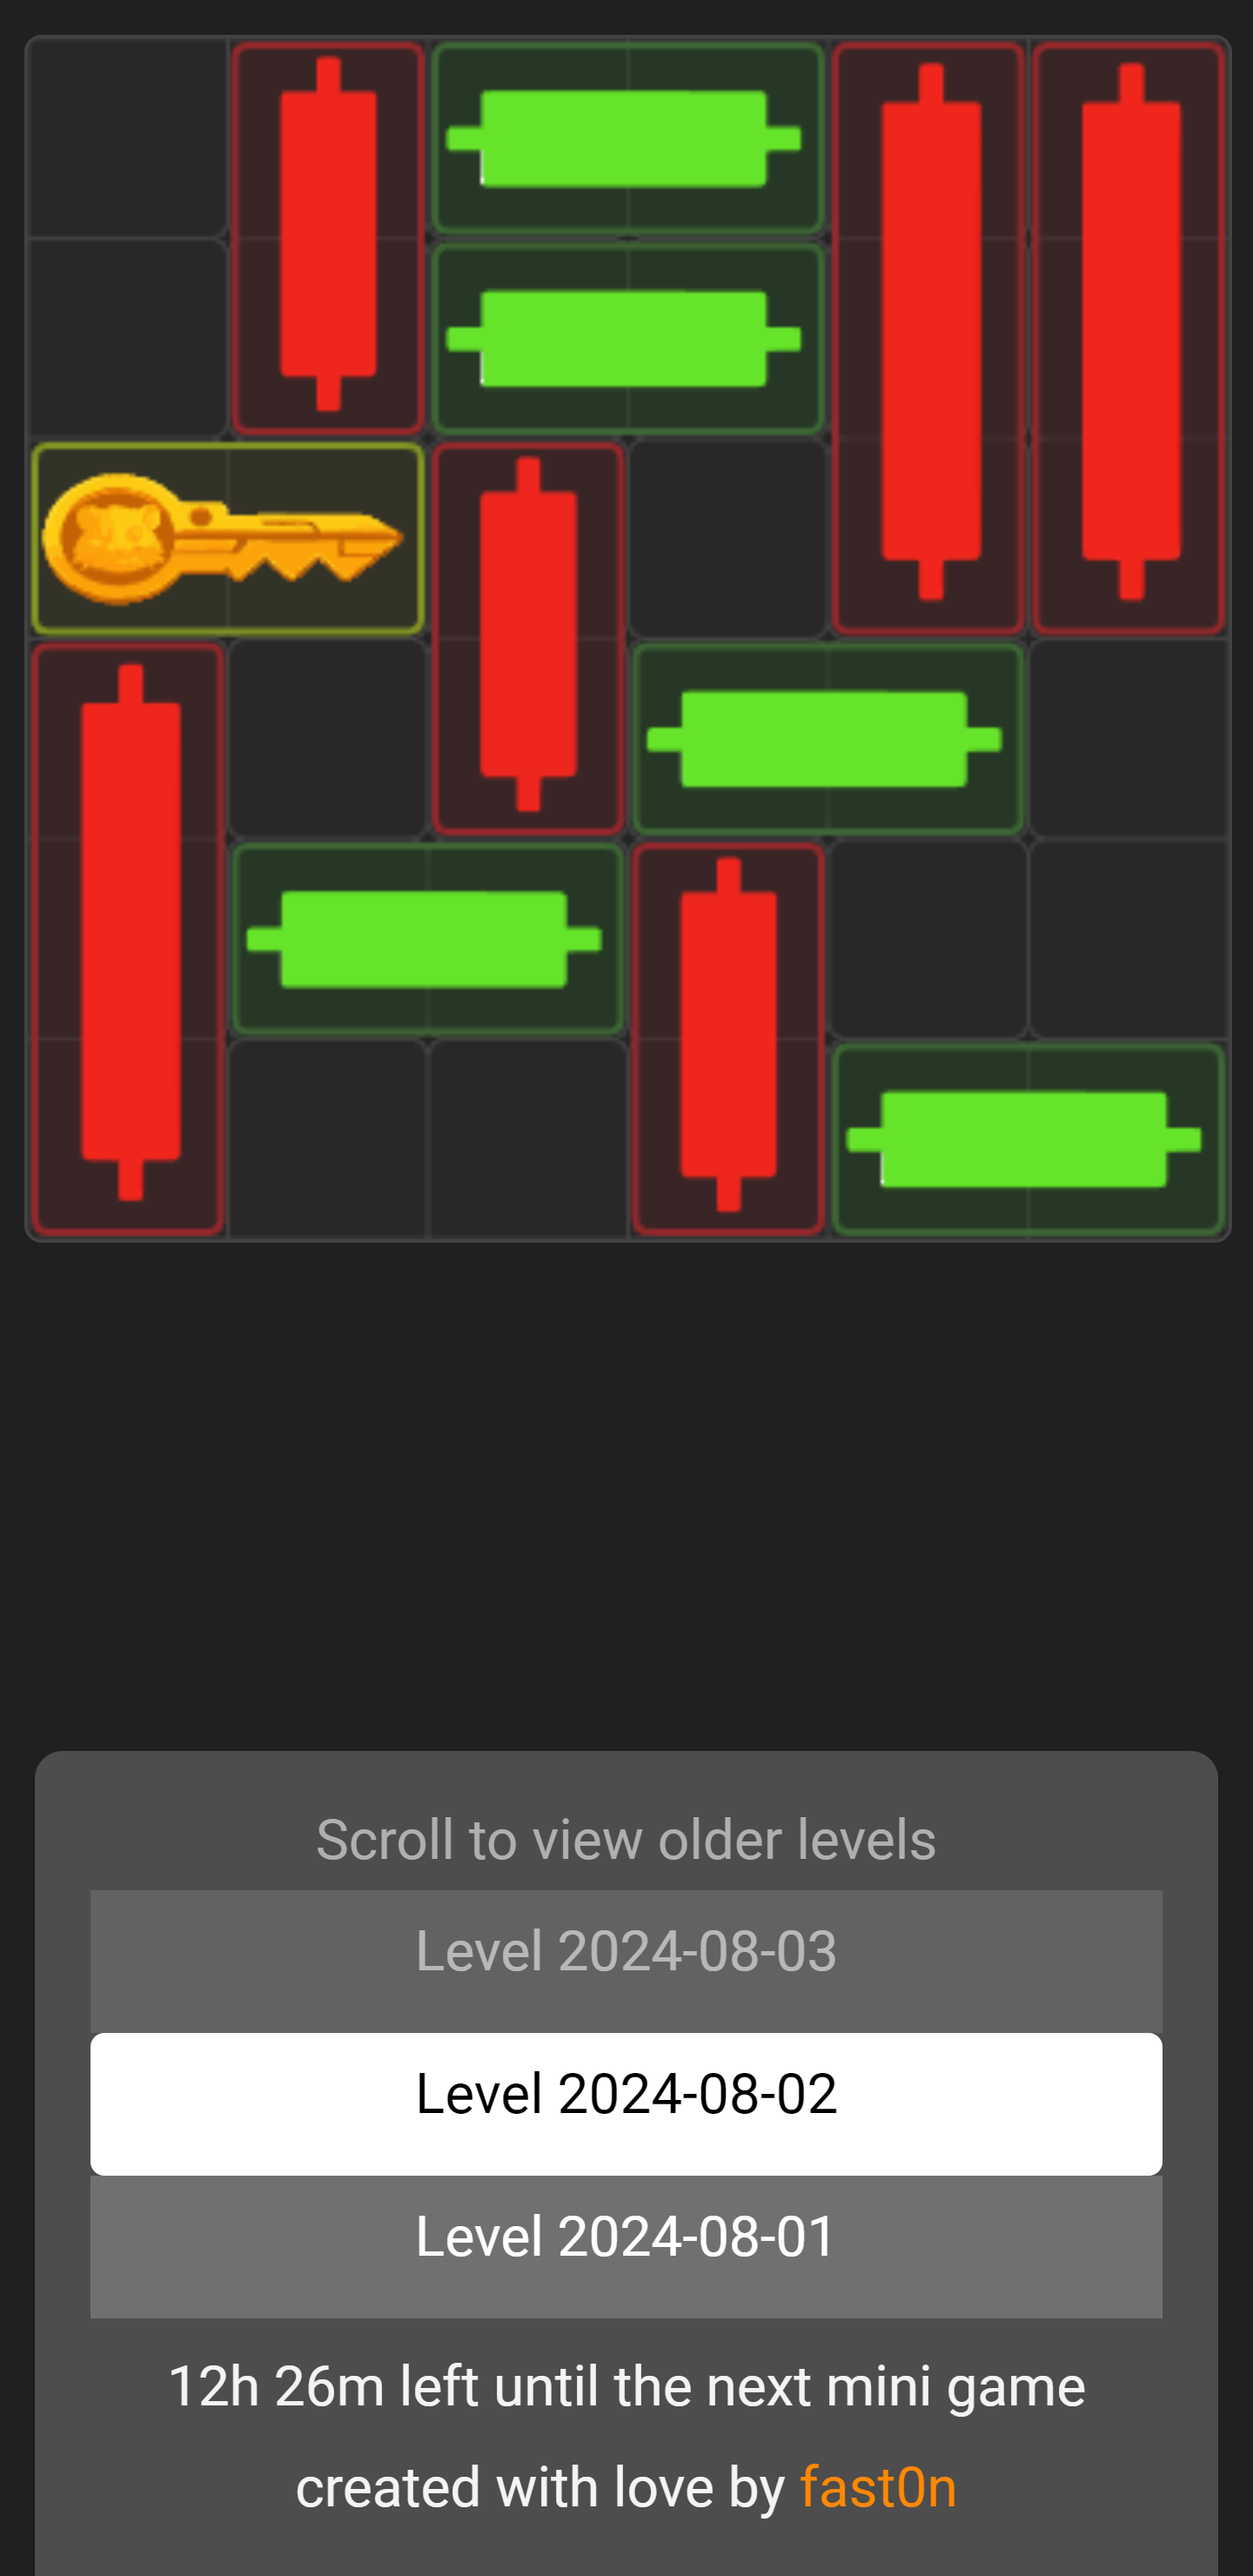
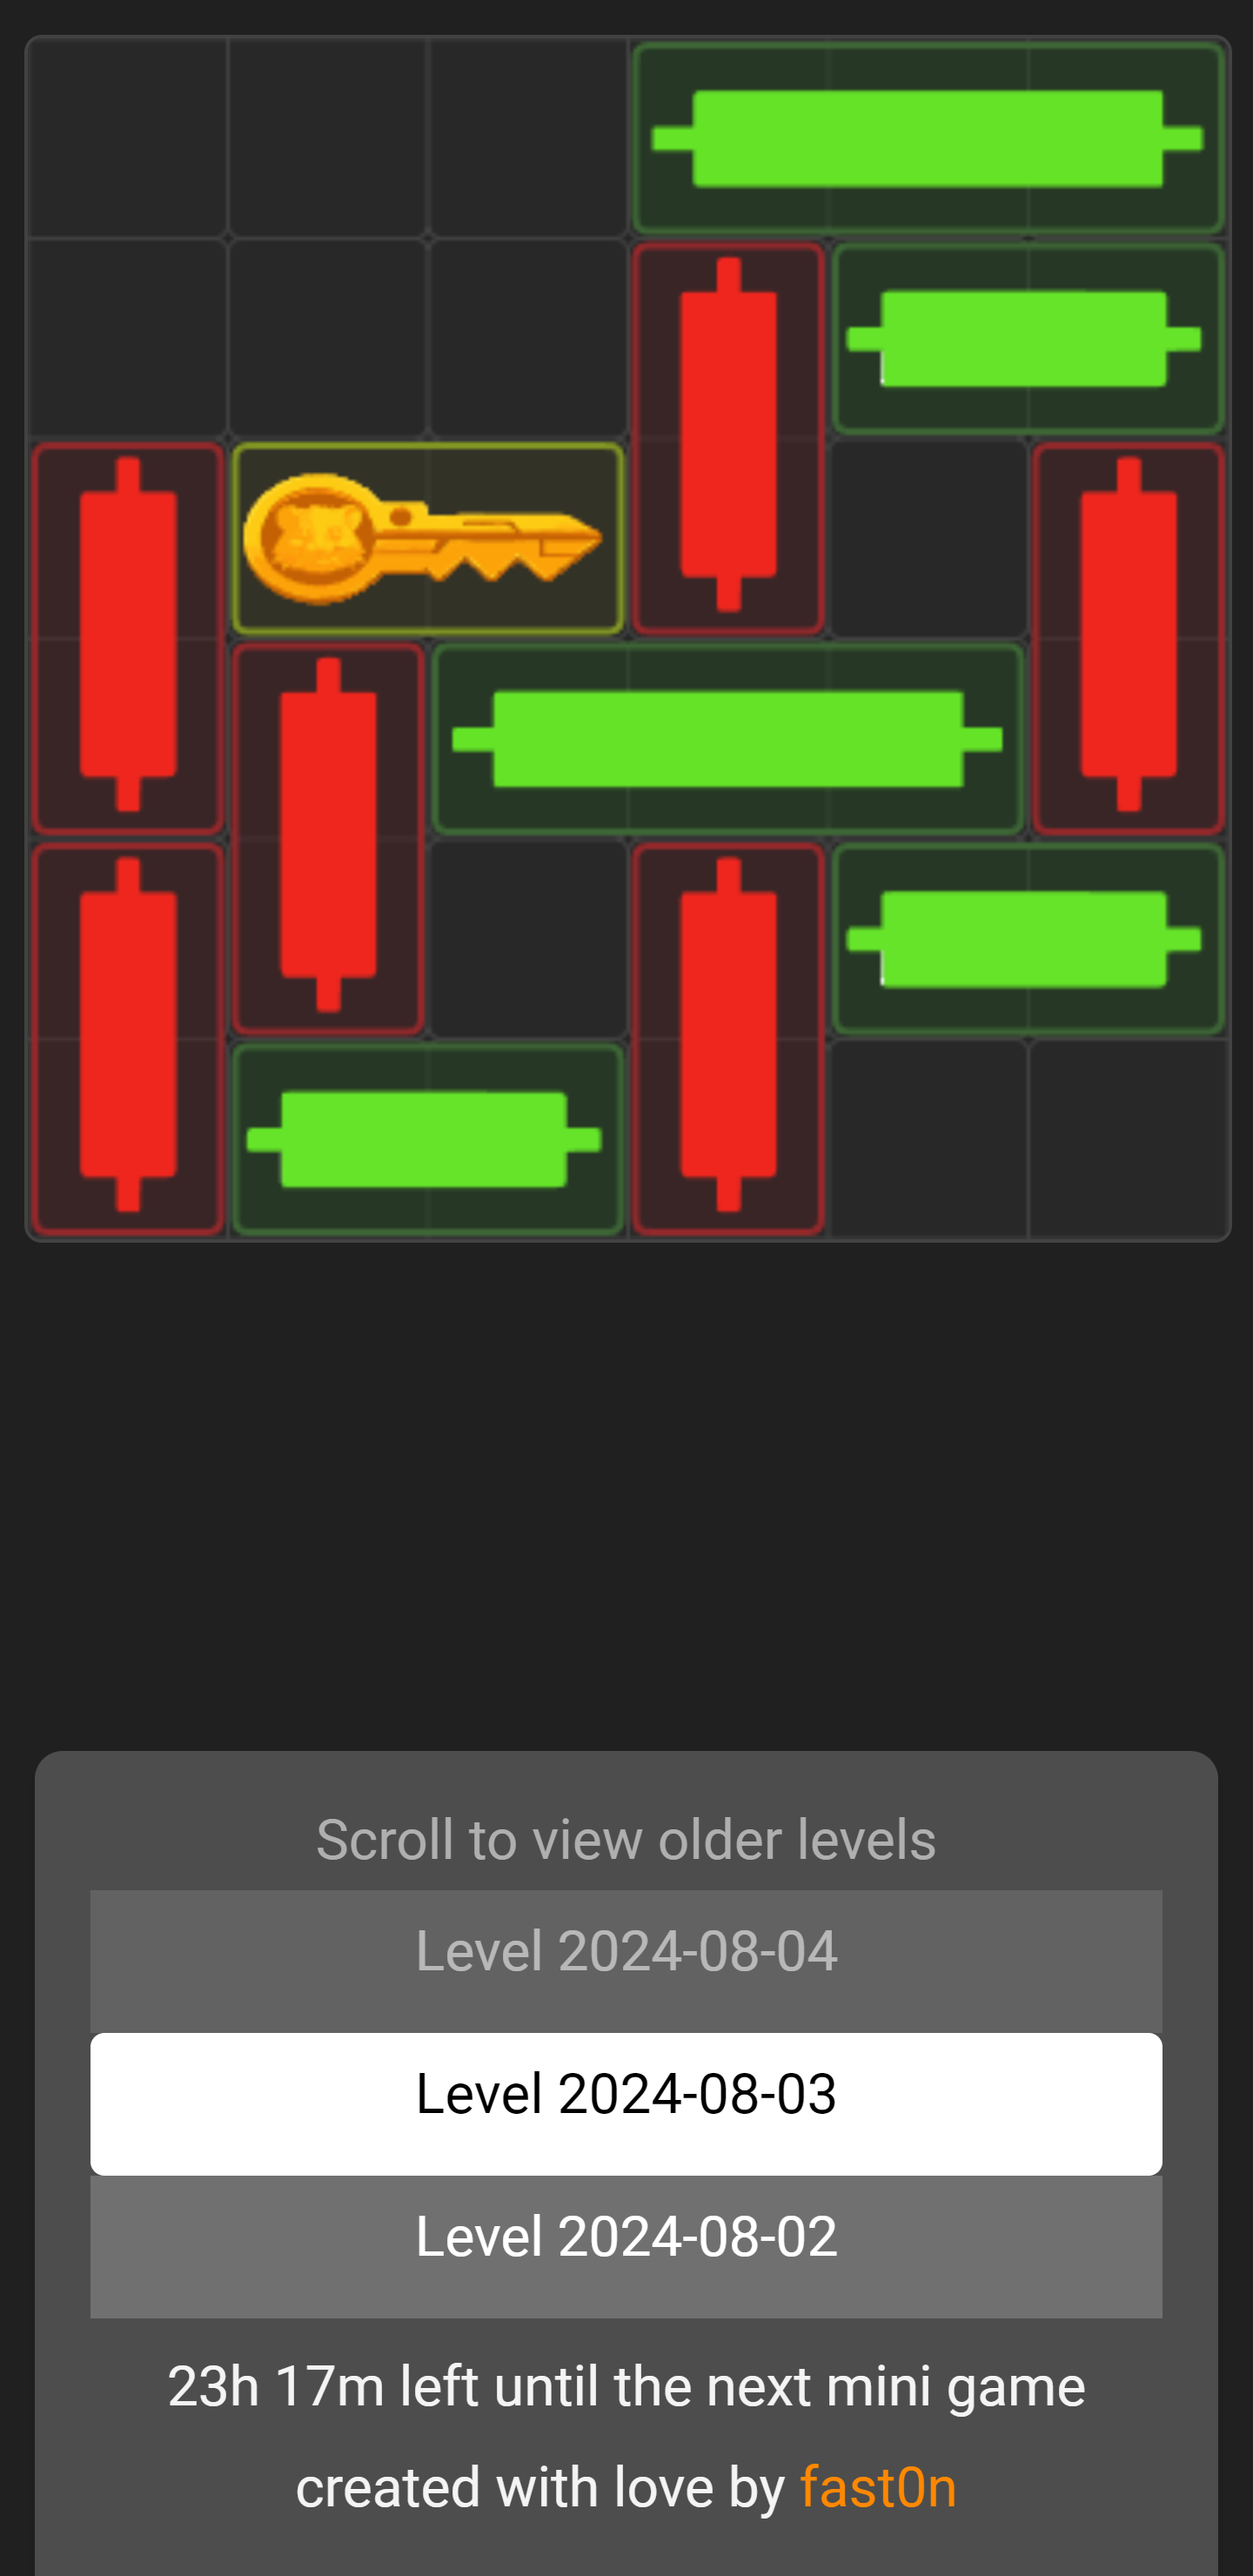
add level 24-08-03

diff --git a/debug/script.js b/debug/script.js
@@ -126,8 +126,11 @@ function drawGame() {
 function moveBlock(block, dx, dy) {
     const newX = block.x + dx;
     const newY = block.y + dy;
-    
-    animateMove(block, block.x, block.y, newX, newY, performance.now());
+
+    if (canMoveBlock(block, dx, dy)) {
+        // Solo se il movimento è valido, avvia l'animazione
+        animateMove(block, block.x, block.y, newX, newY, performance.now());
+    }
 }
 
 function animateMove(block, startX, startY, endX, endY, startTime) {
@@ -164,7 +167,7 @@ function drawBlock(ctx, x, y, width, height, color) {
     const drawY = y * cellSize + padding;
     const drawWidth = width * cellSize - 2 * padding;
     const drawHeight = height * cellSize - 2 * padding;
-    
+
     // Determina il colore di sfondo in base al colore del blocco
     let backgroundColor;
     if (color === 'red' || color === 'red2') {
@@ -174,7 +177,6 @@ function drawBlock(ctx, x, y, width, height, color) {
     } else if (color === 'key') {
         backgroundColor = "rgba(62, 59, 37, 0.5)"; // Colore di sfondo per blocchi chiave con 50% di trasparenza
     }
-
 
     // Salva il contesto corrente
     ctx.save();
@@ -238,17 +240,30 @@ function drawBlock(ctx, x, y, width, height, color) {
     ctx.stroke();
     ctx.restore();
 }
+
+
+
 function canMoveBlock(block, dx, dy) {
     const newX = block.x + dx;
     const newY = block.y + dy;
-    
+
     // Verifica che il blocco non esca dai limiti della griglia
-    if (newX < 0 || newY < 0 || newX + block.width > gridSize || newY + block.height > gridSize) {
+    if (newX < 0 || newY < 0 ||
+        newX + block.width > gridSize ||
+        newY + block.height > gridSize) {
         return false;
     }
 
+    // Verifica che il blocco non esca dai limiti del canvas
+    if (newX < 0 || newY < 0 ||
+        newX + block.width * cellSize > canvas.width ||
+        newY + block.height * cellSize > canvas.height) {
+        return false;
+    }
 
+    return true;
 }
+
 
 
 
@@ -274,16 +289,6 @@ function startDrag(event) {
         initialX = x - selectedBlock.x;
         initialY = y - selectedBlock.y;
         selectedBlock.clickCount = (selectedBlock.clickCount || 0) + 1;
-        if (selectedBlock.clickCount === 5) {
-            if (confirm("Sei sicuro di voler cancellare questo blocco?")) {
-                blocks = blocks.filter(block => block !== selectedBlock);
-                selectedBlock = null;
-                drawGame();
-            } else {
-                selectedBlock.clickCount = 0; // Reset del contatore se la cancellazione è annullata
-            }
-            return;
-        }
     }
 }
 
@@ -395,6 +400,51 @@ function init() {
 // Avvia l'inizializzazione
 init();
 
+// Funzione per aggiungere un blocco
+function addBlock(x, y, color, width, height) {
+    blocks.push({ x, y, color, width, height });
+    drawGame(); // Ridisegna il gioco dopo aver aggiunto il blocco
+}
+
+// Funzione per rimuovere l'ultimo blocco
+function removeLastBlock() {
+    if (blocks.length > 0) {
+        blocks.pop(); // Rimuovi l'ultimo blocco dall'array
+        drawGame(); // Ridisegna il gioco dopo aver rimosso il blocco
+    }
+}
+
+// Gestore di eventi per il pulsante 'red'
+document.getElementById("red").addEventListener("click", function() {
+    // Aggiungi un blocco rosso al canvas
+    addBlock(0, 0, 'red', 1, 2);
+});
+
+// Gestore di eventi per il pulsante 'red2'
+document.getElementById("red2").addEventListener("click", function() {
+    // Aggiungi un blocco rosso al canvas
+    addBlock(0, 0, 'red2', 1, 3);
+});
+
+// Gestore di eventi per il pulsante 'green'
+document.getElementById("green").addEventListener("click", function() {
+    // Aggiungi un blocco verde al canvas
+    addBlock(0, 0, 'green', 2, 1);
+});
+
+// Gestore di eventi per il pulsante 'green2'
+document.getElementById("green2").addEventListener("click", function() {
+    // Aggiungi un blocco verde chiaro al canvas
+    addBlock(0, 0, 'green2', 3, 1);
+});
+
+// Gestore di eventi per il pulsante 'key'
+document.getElementById("key").addEventListener("click", function() {
+    // Aggiungi un blocco 'key' al canvas
+    addBlock(0, 0, 'key', 2, 1);
+});
+
+// Gestore di eventi per il pulsante 'save'
 document.getElementById("save").addEventListener("click", function() {
     // Rimuovi tutte le proprietà clickCount da ogni oggetto in blocks
     blocks.forEach(block => {
@@ -407,4 +457,10 @@ document.getElementById("save").addEventListener("click", function() {
     }, function(err) {
         console.error('Errore durante la copia negli appunti: ', err);
     });
+});
+
+// Gestore di eventi per il pulsante 'erase'
+document.getElementById("erase").addEventListener("click", function() {
+    // Rimuovi l'ultimo blocco
+    removeLastBlock();
 });

diff --git a/debug/index.html b/debug/index.html
@@ -8,7 +8,66 @@
     <title>Hamster Combat Mini Game</title>
     <link rel="stylesheet" href="../styles.css">
     <link rel="stylesheet" href="https://fonts.googleapis.com/css2?family=Roboto:wght@400;700&display=swap">
+    <style>
+
+        
+br{
+    
+    display: block; /* makes it have a width */
+    content: ""; /* clears default height */
+    margin-top: -6px; /* change this to whatever height you want it */
+}
+
+        .button-group {
+            margin-bottom: 10px;
+        }
+
+        .button-group button {
+            margin-right: 10px;
+            padding: 10px 20px;
+            border: none;
+            border-radius: 5px;
+            cursor: pointer;
+        }
+
+        #red {
+            background-color: #93282b;
+            color: white;
+        }
+
+        #red2 {
+            background-color: #93282b;
+            color: white;
+        }
+
+        #green {
+            background-color: #3d6535;
+            color: white;
+        }
+
+        #green2 {
+            background-color: #3d6535;
+            color: white;
+        }
+
+        #key {
+            background-color: #c98f02;
+            color: white;
+        }
+
+        #erase {
+            background-color: darkgray;
+            color: white;
+        }
+
+        #save {
+            background-color: blue;
+            color: white;
+        }
+    </style>
 </head>
+
+
 
 <body>
 
@@ -16,15 +75,31 @@
         <canvas id="gameCanvas" width="330" height="330"></canvas>
     </div>
         <footer>
+            <div class="button-group">
+                <button id="red">🟥<br>🟥</button>
+                <button id="red2">🟥<br>🟥<br>🟥</button>
+            </div>
+            
+            <div class="button-group">
+                <button id="green">🟩<span style="font-size: 0; margin: 0 -4px;"></span>🟩</button>
+                <button id="green2">🟩<span style="font-size: 0; margin: 0 -4px;"></span>🟩<span style="font-size: 0; margin: 0 -4px;"></span>🟩</button>
+            </div>
+            
+            <div class="button-group">
+                <button id="key">🔑</button>
+                <button id="erase">🗑</button>
+            </div>
+            
+            <div class="button-group">
+                <button id="save">Generate and copy</button>
+            </div>
             <nav>
-                <button id="save" type="button">Generate and copy</button>
                 <br>
                 created with love by <a href="https://github.com/Fast0n/HamsterKombatMiniGame" target="_blank">fast0n</a>
             </nav>
         </footer>
     <script src="../script/svgImage.js"></script>
     <script src="script.js"></script>
-    <script src="daily.js"></script>
 </body>
 
 </html>

diff --git a/debug/daily.js b/debug/daily.js
@@ -1,14 +1,1 @@
-blocks = [
-    {'x':0,'y':0,'color':'green2','width':3,'height':1},
-    {'x':4,'y':1,'color':'red','width':1,'height':2},
-    {'x':0,'y':1,'color':'green','width':2,'height':1},
-    {'x':0,'y':3,'color':'green','width':2,'height':1},
-    {'x':0,'y':5,'color':'key','width':2,'height':1,},
-    {'x':3,'y':2,'color':'red2','width':1,'height':3},
-    {'x':5,'y':0,'color':'red','width':1,'height':2},
-    {'x':5,'y':4,'color':'red','width':1,'height':2},
-    {'x':0,'y':2,'color':'green','width':2,'height':1},
-    {'x':4,'y':3,'color':'red2','width':1,'height':3},
-    {'x':2,'y':5,'color':'green','width':2,'height':1},
-    {'x':0,'y':4,'color':'green2','width':3,'height':1},
-    {'x':5,'y':2,'color':'red','width':1,'height':2}]
+// Insert blocks here

diff --git a/script/script.js b/script/script.js
@@ -36,7 +36,7 @@ function drawGame() {
     bufferCtx.fillStyle = '#282828';
     bufferCtx.fillRect(0, 0, bufferCanvas.width, bufferCanvas.height);
 
-    const starSize = 4; // Dimensione della stella (controlla le dimensioni complessive)
+    const starSize = 3; // Dimensione della stella (controlla le dimensioni complessive)
 
     function drawStar(ctx, cx, cy, spikes, outerRadius, innerRadius) {
         const step = Math.PI / spikes;

diff --git a/level/20240802.js b/level/20240802.js
@@ -9,5 +9,5 @@ blocks = [
     { 'x': 2, 'y': 1, 'color': 'green', 'width': 2, 'height': 1 },
     { 'x': 4, 'y': 0, 'color': 'red2', 'width': 1, 'height': 3 },
     { 'x': 4, 'y': 5, 'color': 'green', 'width': 2, 'height': 1 },
-    { 'x': 5, 'y': 0, 'color': 'red2', 'width': 1, 'height': 3 },
+    { 'x': 5, 'y': 2, 'color': 'red2', 'width': 1, 'height': 3 },
     { 'x': 3, 'y': 3, 'color': 'green', 'width': 2, 'height': 1 }]

diff --git a/README.md b/README.md
@@ -1,6 +1,15 @@
 # Hamster Kombat Mini Game
 [![Donate](https://img.shields.io/badge/Donate-PayPal-blue?style=flat-square)](https://paypal.me/fast0n) [![License](https://img.shields.io/github/license/Fast0n/HamsterCombatMiniGames)](https://github.com/Fast0n/HamsterCombatMiniGames/blob/master/LICENSE) 
 
-<kbd><img src='img/screen.png' alt='Hamster Kombat Mini Game' height='500'  /></kbd></a>
+<kbd><img src='img/screen.png' alt='Hamster Kombat Mini Game' height='500'  /></kbd>
+
+## Tutorial Generate Level
+<a href="https://fast0n.github.io/HamsterKombatMiniGame/debug/">
+    <img height="500" src="img/generate_level.gif" alt="Problems" />
+</a>
+
+- Click on "Generate and copy"
+- Send me the result on [Telegram](https://t.me/+7BENd-9CdiJiZWU0).
+
 
 -----------------------------------------------------------------------------------
